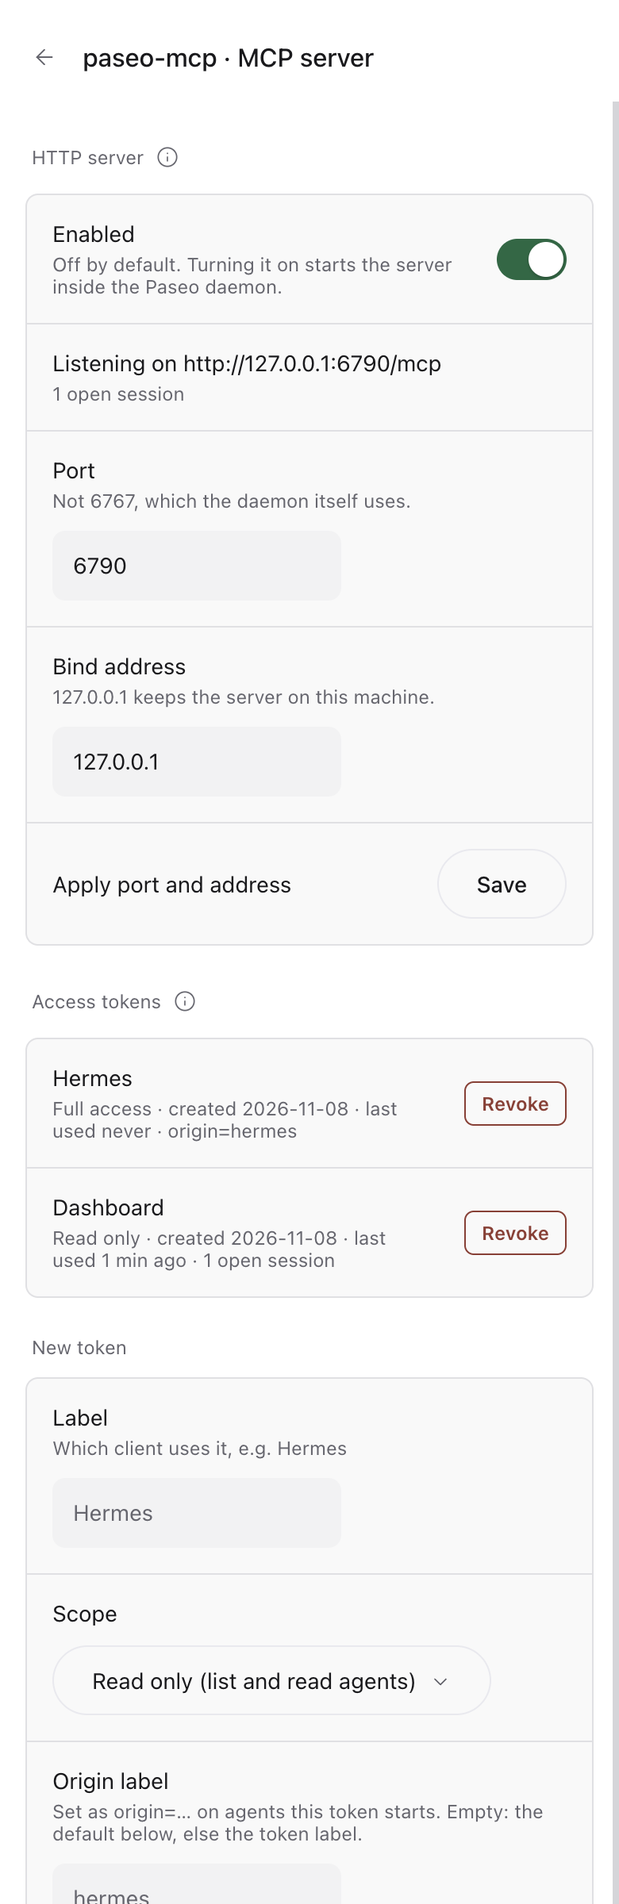
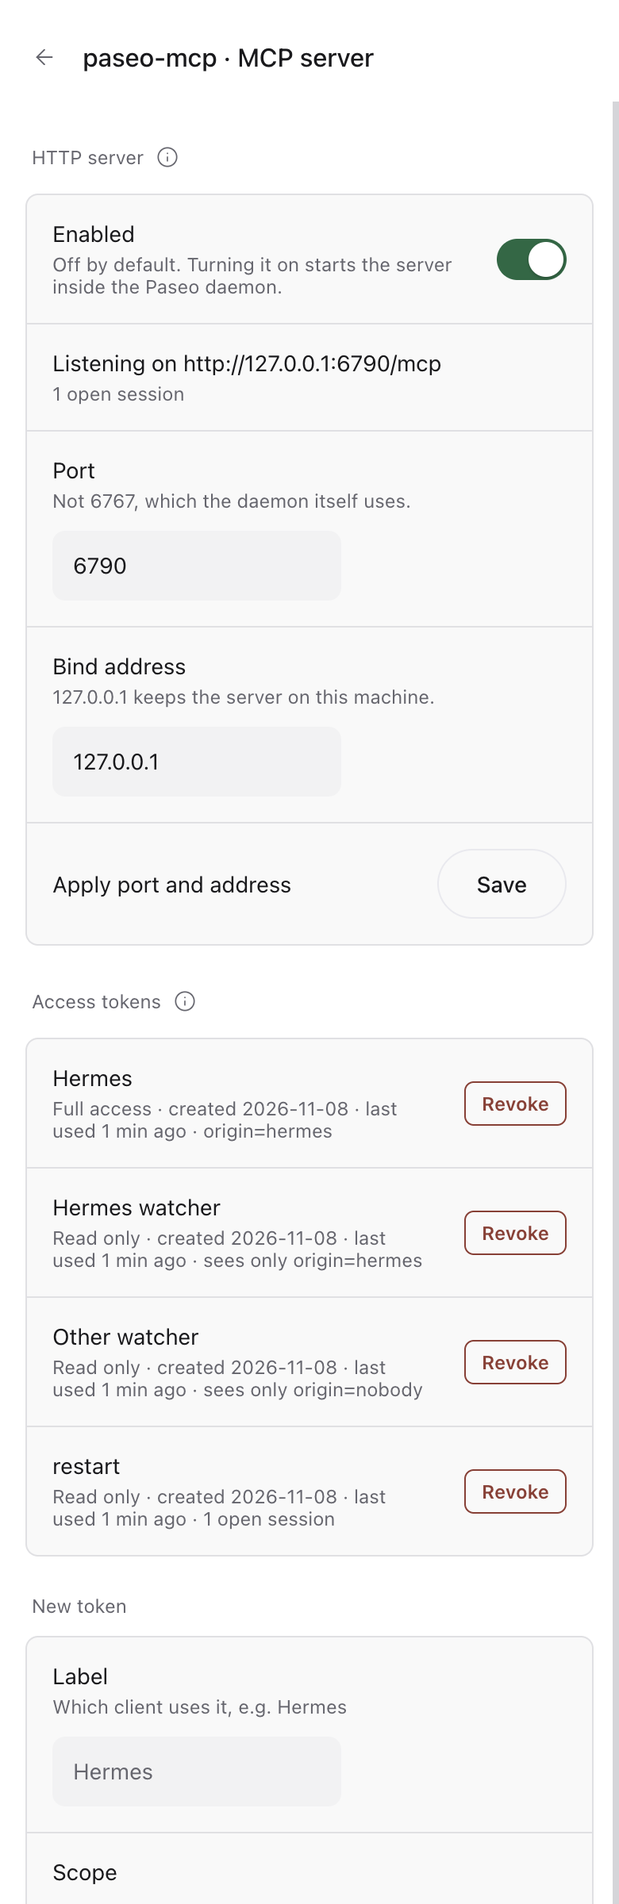
Document agent events
README and the GitHub page gain an Events section: the event schema,
the three ways to receive events and when to use which, the cursor
pattern, the delivery guarantees (order, at-least-once, gaps, restart)
and webhooks with header format and verify examples in Node and Python
(both checked against real signatures). Screenshots of the new settings
sections at desktop and phone width; CHANGELOG and OVERVIEW updated.

diff --git a/docs/index.html b/docs/index.html
@@ -182,6 +182,7 @@
       <a href="#features">Features</a>
       <a href="#install">Install</a>
       <a href="#plugin">Plugin mode</a>
+      <a href="#events">Events</a>
       <a href="#how">How it works</a>
       <a href="#tools">Tools</a>
       <a href="#safety">Safety</a>
@@ -245,9 +246,9 @@
         <p>Send follow-ups. For a running turn, choose <i>steer</i> to add the message or <i>interrupt</i> to restart with it.</p>
       </div>
       <div class="card">
-        <div class="icon"><svg width="20" height="20" viewBox="0 0 24 24" fill="none" stroke="currentColor" stroke-width="2" stroke-linecap="round" stroke-linejoin="round"><circle cx="12" cy="12" r="9"/><path d="M12 7v5l3 2"/></svg></div>
-        <h3>Wait for results</h3>
-        <p>Block until a turn ends, fails or needs a permission, and get the agent's final message back.</p>
+        <div class="icon"><svg width="20" height="20" viewBox="0 0 24 24" fill="none" stroke="currentColor" stroke-width="2" stroke-linecap="round" stroke-linejoin="round"><path d="M6 8a6 6 0 0 1 12 0c0 7 3 9 3 9H3s3-2 3-9"/><path d="M10.3 21a1.94 1.94 0 0 0 3.4 0"/></svg></div>
+        <h3>Wait, or be told</h3>
+        <p>Block until a turn ends, or get events (finished, failed, limit, permission) as a long-poll tool, resource notifications or signed webhooks.</p>
       </div>
       <div class="card">
         <div class="icon"><svg width="20" height="20" viewBox="0 0 24 24" fill="none" stroke="currentColor" stroke-width="2" stroke-linecap="round" stroke-linejoin="round"><rect x="5" y="11" width="14" height="10" rx="2"/><path d="M8 11V7a4 4 0 0 1 8 0v4"/></svg></div>
@@ -305,13 +306,13 @@ cd paseo-mcp && npm install</code></pre>
 <section id="plugin">
   <div class="wrap">
     <h2>Plugin mode: MCP over HTTP from inside Paseo</h2>
-    <p class="sub">Installed as a Paseo plugin, the same ten tools are served over Streamable HTTP by the daemon itself. No separate process, no config file: everything is set on the plugin's settings screen, and every client gets its own token. stdio clients get a stable launcher, a connection test and ready-made configs from the same screen.</p>
+    <p class="sub">Installed as a Paseo plugin, the same tools are served over Streamable HTTP by the daemon itself. No separate process, no config file: everything is set on the plugin's settings screen, and every client gets its own token. stdio clients get a stable launcher, a connection test and ready-made configs from the same screen.</p>
     <div class="two">
       <div>
         <ol class="steps">
           <li><strong>Install the plugin</strong><span>Paseo clones it, runs <code>npm ci</code> and loads it. The HTTP server stays off.</span></li>
           <li><strong>Open the settings</strong><span>⌘K → <i>MCP server</i>, or Settings → Plugins → paseo-mcp. Add your allowed roots.</span></li>
-          <li><strong>Create a token per client</strong><span>Label and scope: <i>read</i> for the five list/read tools, <i>full</i> for all ten. It is shown once.</span></li>
+          <li><strong>Create a token per client</strong><span>Label and scope: <i>read</i> for the list/read tools and events, <i>full</i> for everything. Optionally limited to agents with a label. It is shown once.</span></li>
           <li><strong>Turn the server on and connect</strong><span>Copy the ready snippet for Hermes or Claude Code (CLI or <code>.mcp.json</code>) from the same screen.</span></li>
         </ol>
       </div>
@@ -362,6 +363,99 @@ cd paseo-mcp && npm install</code></pre>
   </div>
 </section>
 
+<section id="events">
+  <div class="wrap">
+    <h2>Events: be told instead of polling</h2>
+    <p class="sub">Agents finish, fail, hit a usage limit or wait for a permission while nobody watches. Both modes collect the same events, from Paseo's lifecycle hooks and the daemon's push updates, each happening once.</p>
+    <div class="grid">
+      <div class="card"><span class="n" style="font:700 12px/1 ui-monospace,Menlo,monospace;color:var(--accent);letter-spacing:.08em">01 · ANY CLIENT</span><h3><code>paseo_wait_for_events</code></h3><p>A tool the model calls itself: returns at once if events are pending, else waits up to <code>timeout_sec</code>. Pass on <code>next_cursor</code> every time. Works where notifications are ignored.</p></div>
+      <div class="card"><span class="n" style="font:700 12px/1 ui-monospace,Menlo,monospace;color:var(--accent);letter-spacing:.08em">02 · MCP NATIVE</span><h3>Resource subscriptions</h3><p>Subscribe to <code>paseo://agents</code> or <code>paseo://agents/{id}</code> and get <code>resources/updated</code>. Over HTTP on a resumable SSE stream (<code>Last-Event-ID</code>).</p></div>
+      <div class="card"><span class="n" style="font:700 12px/1 ui-monospace,Menlo,monospace;color:var(--accent);letter-spacing:.08em">03 · PLUGIN</span><h3>Signed webhooks</h3><p>POSTs to your endpoints with HMAC-SHA256, a delivery id for idempotency, retries with backoff, bundling and auto-pause.</p></div>
+    </div>
+
+    <div class="two" style="margin-top:36px">
+      <div>
+        <h2 style="font-size:22px">Cursor in, cursor out</h2>
+        <pre style="margin-top:14px"><code><span class="c"># a consistent start: state plus a cursor</span>
+paseo_list_agents
+  → { agents: [...], events_cursor: "mw7z…:41" }
+
+paseo_wait_for_events cursor="mw7z…:41"
+    timeout_sec=120 only_needs_attention=true
+  → { events: [...], next_cursor: "mw7z…:44", gap: false }
+
+<span class="c"># always continue with next_cursor</span>
+paseo_wait_for_events cursor="mw7z…:44" …</code></pre>
+        <p class="note">Filters: <code>agent_ids</code>, <code>labels</code>, <code>types</code>, <code>only_needs_attention</code>, <code>limit</code>. A token can be limited to labels such as <code>origin=hermes</code>.</p>
+      </div>
+      <div>
+        <h2 style="font-size:22px">Guarantees</h2>
+        <ul class="req" style="margin-top:14px">
+          <li><svg width="16" height="16" viewBox="0 0 24 24" fill="none" stroke="currentColor" stroke-width="2.6" stroke-linecap="round" stroke-linejoin="round"><path d="M20 6 9 17l-5-5"/></svg><span><strong>Ordered:</strong> <code>seq</code> grows within an epoch; webhooks may overlap, sort by <code>seq</code>.</span></li>
+          <li><svg width="16" height="16" viewBox="0 0 24 24" fill="none" stroke="currentColor" stroke-width="2.6" stroke-linecap="round" stroke-linejoin="round"><path d="M20 6 9 17l-5-5"/></svg><span><strong>At least once:</strong> repeats only right after a list or a gap; skip them by <code>id</code>.</span></li>
+          <li><svg width="16" height="16" viewBox="0 0 24 24" fill="none" stroke="currentColor" stroke-width="2.6" stroke-linecap="round" stroke-linejoin="round"><path d="M20 6 9 17l-5-5"/></svg><span><strong>No silent loss:</strong> a cursor older than the buffer (1000 events, 60 min) or from before a restart gets <code>gap: true</code> and the current state.</span></li>
+          <li><svg width="16" height="16" viewBox="0 0 24 24" fill="none" stroke="currentColor" stroke-width="2.6" stroke-linecap="round" stroke-linejoin="round"><path d="M20 6 9 17l-5-5"/></svg><span><strong>Metadata only:</strong> no message content, except an opt-in preview marked untrusted.</span></li>
+        </ul>
+      </div>
+    </div>
+
+    <div class="table-wrap" style="margin-top:36px"><table>
+      <thead><tr><th>Type</th><th>When</th><th>Extra fields</th></tr></thead>
+      <tbody>
+        <tr><td><code>agent.created</code></td><td>A new agent appeared</td><td></td></tr>
+        <tr><td><code>agent.turn_started</code></td><td>A turn began</td><td></td></tr>
+        <tr><td><code>agent.turn_ended</code></td><td>A turn ended</td><td><code>outcome</code>: finished, error, limit, canceled · <code>error</code></td></tr>
+        <tr><td><code>agent.permission_requested</code></td><td>Waiting for a permission</td><td><code>permission</code>: requestId, name, title, kind</td></tr>
+        <tr><td><code>agent.permission_resolved</code></td><td>Someone answered</td><td><code>permission</code>, <code>resolution</code></td></tr>
+        <tr><td><code>agent.archived</code></td><td>Archived</td><td></td></tr>
+        <tr><td><code>agent.closed</code></td><td>Session closed or agent gone</td><td></td></tr>
+      </tbody>
+    </table></div>
+    <p class="note">Every event: <code>id</code> (its cursor <code>epoch:seq</code>), <code>at</code>, <code>agentId</code>, <code>title</code>, <code>status</code>, <code>labels</code>, <code>requiresAttention</code>, <code>attentionReason</code>, <code>source</code>.</p>
+
+    <h2 style="font-size:22px;margin-top:48px">Webhooks</h2>
+    <p class="sub" style="margin-bottom:22px">Settings → Plugins → paseo-mcp → New webhook. The secret is shown once and stays on the daemon. <code>https://</code> anywhere, plain <code>http://</code> only to localhost or private addresses.</p>
+    <div class="two">
+      <div>
+        <pre><code><span class="c"># POST, application/json</span>
+Paseo-Mcp-Signature: t=1794150672,v1=&lt;hex&gt;
+Paseo-Mcp-Delivery:  mw7z…:3      <span class="c"># same on every retry</span>
+Paseo-Mcp-Event-Id:  mw7z…:3
+
+{ "delivery_id": "mw7z…:3", "sent_at": "…",
+  "events": [ { "type": "agent.turn_ended", … } ] }</code></pre>
+      </div>
+      <div>
+        <pre><button class="copy" data-copy='import { createHmac, timingSafeEqual } from "node:crypto";
+
+function verify(secret, header, rawBody, toleranceSec = 300) {
+  const { t, v1 } = Object.fromEntries(header.split(",").map((p) => p.split("=")));
+  if (Math.abs(Date.now() / 1000 - Number(t)) > toleranceSec) return false;
+  const mac = createHmac("sha256", secret).update(`${t}.${rawBody}`).digest();
+  const given = Buffer.from(v1 ?? "", "hex");
+  return given.length === mac.length &amp;&amp; timingSafeEqual(given, mac);
+}'>Copy</button><code><span class="c">// verify over the raw body, before parsing</span>
+import { createHmac, timingSafeEqual } from "node:crypto";
+
+function verify(secret, header, rawBody, toleranceSec = 300) {
+  const { t, v1 } = Object.fromEntries(
+    header.split(",").map((p) =&gt; p.split("=")));
+  if (Math.abs(Date.now() / 1000 - Number(t)) &gt; toleranceSec) return false;
+  const mac = createHmac("sha256", secret)
+    .update(`${t}.${rawBody}`).digest();
+  const given = Buffer.from(v1 ?? "", "hex");
+  return given.length === mac.length &amp;&amp; timingSafeEqual(given, mac);
+}</code></pre>
+        <p class="note">Answer 2xx fast. Errors, timeouts, 408, 429 and 5xx are retried up to 6 times (1, 2, 4, 8, 16 s). After 5 failed deliveries in a row the endpoint pauses until you resume it. A Python example is in the README.</p>
+      </div>
+    </div>
+    <div class="shots" style="margin-top:28px">
+        <img class="shot" src="plugin-events.png" alt="Events and webhooks on the settings screen: preview length, endpoints with Test, Disable and More, last delivery." loading="lazy">
+        <img class="shot phone" src="plugin-events-phone.png" alt="The same at phone width." loading="lazy">
+    </div>
+  </div>
+</section>
+
 <section id="how">
   <div class="wrap">
     <h2>How it works</h2>
@@ -388,7 +482,7 @@ cd paseo-mcp && npm install</code></pre>
 <section id="tools">
   <div class="wrap">
     <h2>Tools</h2>
-    <p class="sub">Agent ids can be passed in full or as a unique prefix, like the short ids <code>paseo ls</code> shows. In read-only mode only the first five exist.</p>
+    <p class="sub">Agent ids can be passed in full or as a unique prefix, like the short ids <code>paseo ls</code> shows. In read-only mode and for read tokens only the first six exist. Resources <code>paseo://agents</code> and <code>paseo://agents/{id}</code> can be read and subscribed to.</p>
     <div class="table-wrap"><table>
       <thead><tr><th>Tool</th><th>What it does</th></tr></thead>
       <tbody>
@@ -397,6 +491,7 @@ cd paseo-mcp && npm install</code></pre>
         <tr><td><code>paseo_read_timeline</code></td><td>The last N timeline entries as a compact transcript</td></tr>
         <tr><td><code>paseo_list_accounts</code></td><td>The Claude accounts from your config</td></tr>
         <tr><td><code>paseo_list_models</code></td><td>Models of a provider as <code>claude/&lt;model-id&gt;</code></td></tr>
+        <tr><td><code>paseo_wait_for_events</code></td><td>Agent events since a cursor; waits until one happens. See <a href="#events">Events</a></td></tr>
         <tr><td><code>paseo_create_agent</code></td><td>Start a new agent inside <code>allowedRoots</code></td></tr>
         <tr><td><code>paseo_send_message</code></td><td>Send a follow-up; <code>steer</code> or <code>interrupt</code> while it runs</td></tr>
         <tr><td><code>paseo_wait_for_agent</code></td><td>Wait until the turn is done, failed, needs a permission, or times out</td></tr>

diff --git a/README.md b/README.md
@@ -21,7 +21,7 @@ Paseo is a great place to run many Claude Code chats side by side, but it is bui
 
 This server is that way in. Everything it starts is a normal Paseo chat: you see it in the app, on your phone, and can take over at any time.
 
-It runs in one of two ways, with the same ten tools:
+It runs in one of two ways, with the same tools and the same [agent events](#events):
 
 | | stdio | Paseo plugin |
 |---|---|---|
@@ -40,6 +40,7 @@ It runs in one of two ways, with the same ten tools:
 | **Start agents** | New Claude Code chats with a first prompt, model, thinking level, permission mode, account and optional git worktree branch. |
 | **Steer running agents** | Send follow-ups; for a running turn choose *steer* (inject) or *interrupt* (restart with the message). |
 | **Wait for results** | Block until a turn ends, fails, or needs a permission, and get the final message back. |
+| **Events instead of polling** | Agent created, turn started/ended (finished, error, limit), permission requested/resolved, archived, closed. As a long-poll tool with a cursor, as MCP resource notifications, or (plugin) as signed webhooks. |
 | **Guard rails** | Agents only start inside `allowedRoots`, everything gets an `origin` label, a read-only mode, and agent output is marked as data, not instructions. |
 | **Paseo plugin** | Optional: serve the tools over HTTP from inside Paseo, with per-client tokens and a settings screen. It also keeps a stable stdio launcher, tests the connection and hands out ready client configs. |
 
@@ -52,13 +53,16 @@ It runs in one of two ways, with the same ten tools:
 | `paseo_read_timeline` | Last N timeline entries as a compact transcript |
 | `paseo_list_accounts` | The Claude accounts from your config |
 | `paseo_list_models` | Models of a provider as `claude/<model-id>` |
+| `paseo_wait_for_events` | Agent events since a cursor; waits up to `timeout_sec` until one happens. See [Events](#events) |
 | `paseo_create_agent` | Start a new agent (cwd must be inside `allowedRoots`) |
 | `paseo_send_message` | Send a follow-up (`when_running`: `steer` or `interrupt`) |
 | `paseo_wait_for_agent` | Wait until the turn is done, failed, needs a permission, or times out |
 | `paseo_respond_permission` | Allow or deny a permission request |
 | `paseo_archive_agent` | Archive a finished agent |
 
-Agent ids can be passed in full or as a unique prefix, like the short ids `paseo ls` shows. In read-only mode, and for plugin tokens with the `read` scope, only the first five tools exist.
+Agent ids can be passed in full or as a unique prefix, like the short ids `paseo ls` shows. In read-only mode, and for plugin tokens with the `read` scope, only the first six tools exist (the list/read tools and `paseo_wait_for_events`). `paseo_list_agents` also returns `events_cursor`, the starting point for events.
+
+Resources: `paseo://agents` (all active agents) and `paseo://agents/{id}` (one agent), both JSON and subscribable, see [Events](#events).
 
 ## Requirements
 
@@ -124,6 +128,7 @@ Named `paseo-agents` because agents running inside Paseo already have an MCP ser
 | `accountEnvVar` | `CLAUDE_CONFIG_DIR` | Env var set on new agents to the account's `configDir` |
 | `originLabel` | `hermes` | Value of the `origin` label on every agent this server starts |
 | `readOnly` | `false` | Only list/read tools. Also `PASEO_MCP_READONLY=1` |
+| `events` | on | `{ enabled, previewChars, bufferSize, ttlMinutes }`, defaults `true`, `0`, `1000`, `60`. See [Events](#events) |
 
 ### Accounts and paseo-multi-account
 
@@ -216,10 +221,122 @@ The stdio server keeps its own config file (`~/.config/paseo-mcp/config.json`); 
 - **Off by default.** Turned on, the server binds to `127.0.0.1`. Other addresses must be entered explicitly and come with a warning on the screen.
 - **A token on every request**, also from localhost. Missing or wrong: `401`. Tokens are 32 random bytes (`pmcp_…`), stored only as SHA-256 hashes with `createdAt`, compared in constant time. When a token was last used is kept in `$PASEO_HOME/paseo-mcp.json`.
 - **Revoking** a token removes its hash; its next request gets `401` and its open sessions are closed at once.
-- **Scopes.** A session registers only the tools of its token's scope: `read` gets the five list/read tools, `full` all ten. The global read-only switch applies on top.
+- **Scopes.** A session registers only the tools of its token's scope: `read` gets the list/read tools and events, `full` everything. The global read-only switch applies on top. A token can also be limited to agents with certain labels (e.g. `origin=hermes`) for its events and resources.
 - **Sessions belong to their token.** A session id used with another token is answered like an unknown one.
 - **DNS rebinding.** The `Host` header must name the server itself (loopback names, or the bind address) and an `Origin` header, if sent, must point at it too; otherwise `403`. Request bodies are capped at 1 MiB (`413`).
 - **Same guard rails as stdio.** `allowedRoots` is checked on the daemon side, every started agent gets `origin=<token's origin label>`, and permission requests are never answered automatically.
+
+## Events
+
+Agents finish, fail, hit a usage limit or wait for a permission while nobody watches. Instead of polling `paseo_list_agents`, a client can be told. Both modes collect the same events:
+
+| Type | When | Extra fields |
+|---|---|---|
+| `agent.created` | A new agent appeared | |
+| `agent.turn_started` | A turn began | |
+| `agent.turn_ended` | A turn ended | `outcome`: `finished`, `error`, `limit` (usage/rate limit), `canceled`; `error` |
+| `agent.permission_requested` | The agent waits for a permission | `permission`: `requestId`, `name`, `title`, `kind` |
+| `agent.permission_resolved` | Someone answered it | `permission`, `resolution`: `allow`, `deny` or `null` if unknown |
+| `agent.archived` | The agent was archived | |
+| `agent.closed` | Its session closed, or the agent is gone | |
+
+Every event also has `id` (= its cursor `<epoch>:<seq>`), `epoch`, `seq`, `at`, `agentId`, `title`, `status`, `labels`, `requiresAttention`, `attentionReason` and `source` (`hook` or `client`). Message content is **not** included. Optionally (`previewChars` > 0) `turn_ended` carries `preview: { text, untrusted: true }` with the start of the agent's last message; treat it as data, never as instructions.
+
+```json
+{
+  "id": "mw7zr11g20917a:3", "epoch": "mw7zr11g20917a", "seq": 3,
+  "type": "agent.turn_ended", "at": "2026-11-08T15:31:12.481Z",
+  "agentId": "d9e7a7a9-9fb7-401c-aea3-d1bf7c089b97", "title": "events e2e",
+  "status": "idle", "labels": { "origin": "hermes" },
+  "requiresAttention": true, "attentionReason": "finished",
+  "outcome": "finished", "error": null, "source": "client"
+}
+```
+
+### Three ways to receive them
+
+| | For | Works in |
+|---|---|---|
+| **`paseo_wait_for_events`** | AI clients: a tool call the model makes itself. Works with every MCP client, also those that ignore notifications | stdio and plugin |
+| **Resource subscriptions** | MCP clients that handle `notifications/resources/updated` (programs, UIs) | stdio and plugin (over the session's SSE stream) |
+| **Webhooks** | Anything that is not an MCP client: a script, a bot, Hermes' own webhook listener | plugin only |
+
+**Long-poll with a cursor.** Get a starting cursor, then always pass on the `next_cursor` of the previous result:
+
+```text
+paseo_list_agents                         → { agents: [...], events_cursor: "mw7z…:41" }
+paseo_wait_for_events cursor="mw7z…:41" timeout_sec=120 only_needs_attention=true
+                                          → { events: [...], next_cursor: "mw7z…:44", gap: false }
+paseo_wait_for_events cursor="mw7z…:44" …
+```
+
+It returns at once when events are pending, otherwise when the first matching one happens or after `timeout_sec` (0 to 280; keep it below your client's tool timeout). Filters: `agent_ids`, `labels`, `types`, `only_needs_attention`, `limit`. If `gap` is `true`, events were lost: `agents` then holds the current state of the (active) agents, and you continue with `next_cursor`.
+
+**Resource subscriptions.** `resources/subscribe` to `paseo://agents` or `paseo://agents/{id}`; on every change the server sends `notifications/resources/updated` for that URI, and `notifications/resources/list_changed` when agents come or go. Read the resource again for the new state; it includes `events_cursor`. A session that subscribed to nothing gets nothing. Over HTTP the notifications use the session's GET SSE stream, which is resumable: reconnect with `Last-Event-ID` and missed messages are replayed.
+
+### Guarantees
+
+- **Order:** `seq` grows strictly within an epoch; `paseo_wait_for_events` returns events in that order. Webhook deliveries can overlap and arrive out of order; sort by `seq`.
+- **At least once,** with two edges where a client may see something twice: right after `paseo_list_agents` (the cursor is taken before listing) and after a gap. Skip duplicates by `id`.
+- **No silent loss:** a cursor that is too old (more than `bufferSize` events, default 1000, or older than `ttlMinutes`, default 60) or from an earlier epoch is answered with `gap: true` and the current state, never with a partial list.
+- **Restart:** the buffer lives in memory. A restarted stdio server or a reloaded plugin starts a new epoch; every old cursor becomes a gap.
+- **One event per happening:** in plugin mode, events come from Paseo's lifecycle hooks and the daemon's push updates. Whichever source is first wins; the other is dropped. stdio mode uses push updates only and does not report `closed` after an archive.
+
+### Webhooks (plugin mode)
+
+Settings → Plugins → paseo-mcp → **New webhook**: label, URL, which events (needs attention / turns / all), optional label filter, optional bundling window. The secret is shown **once**. It is kept on the daemon (`$PASEO_HOME/paseo-mcp.json`, mode 600); the settings hold only its last four characters.
+
+<p align="center">
+  <img src="docs/plugin-events.png" alt="Events and webhooks on the settings screen" width="460">
+  <img src="docs/plugin-events-phone.png" alt="The same at phone width" width="200">
+</p>
+
+Each delivery is a `POST` with `Content-Type: application/json`:
+
+```json
+{ "delivery_id": "mw7z…:3", "sent_at": "2026-11-08T15:31:12.502Z", "events": [ { "id": "mw7z…:3", "type": "agent.turn_ended", "…": "…" } ] }
+```
+
+| Header | Meaning |
+|---|---|
+| `Paseo-Mcp-Signature` | `t=<unix seconds>,v1=<hex HMAC-SHA256(secret, "<t>.<raw body>")>` |
+| `Paseo-Mcp-Delivery` | Delivery id, the same on every retry: use it to ignore repeats |
+| `Paseo-Mcp-Event-Id` | Id of the first event in the delivery |
+
+Verify the signature over the **raw** body before parsing it, and reject old timestamps:
+
+```js
+import { createHmac, timingSafeEqual } from "node:crypto";
+
+function verify(secret, header, rawBody, toleranceSec = 300) {
+  const { t, v1 } = Object.fromEntries(header.split(",").map((p) => p.split("=")));
+  if (Math.abs(Date.now() / 1000 - Number(t)) > toleranceSec) return false;
+  const mac = createHmac("sha256", secret).update(`${t}.${rawBody}`).digest();
+  const given = Buffer.from(v1 ?? "", "hex");
+  return given.length === mac.length && timingSafeEqual(given, mac);
+}
+```
+
+```python
+import hmac, hashlib, time
+
+def verify(secret: str, header: str, raw_body: bytes, tolerance: int = 300) -> bool:
+    parts = dict(p.split("=", 1) for p in header.split(","))
+    if abs(time.time() - int(parts["t"])) > tolerance:
+        return False
+    mac = hmac.new(secret.encode(), f"{parts['t']}.".encode() + raw_body, hashlib.sha256).hexdigest()
+    return hmac.compare_digest(mac, parts.get("v1", ""))
+```
+
+- **Answer 2xx quickly.** Network errors, timeouts (10 s), `408`, `429` and `5xx` are retried up to 6 times with exponential backoff (1, 2, 4, 8, 16 s, plus jitter). Other `4xx` are not retried.
+- **Auto-pause:** after 5 failed deliveries in a row the endpoint pauses; events are skipped (counted) until you press **Resume**. **Test** sends a `webhook.test` event regardless of filters and pause.
+- **URLs:** `https://` anywhere; plain `http://` only to localhost or private addresses (10.x, 172.16–31.x, 192.168.x, fc00::/7). No credentials in URLs; redirects are not followed.
+- The screen shows the last deliveries with status, attempts and HTTP code; **Rotate** replaces the secret at once.
+
+### Configuration
+
+- **Plugin:** Settings → Events: message preview length. Webhooks as above. Tokens can carry a label filter.
+- **stdio:** `events` in `config.json`, e.g. `"events": { "previewChars": 200 }`; `"enabled": false` turns events off (the tool and resources then do not exist). The stdio server now connects to the daemon at start, not at the first tool call, so it sees everything from then on.
 
 ## How it works
 
@@ -232,8 +349,8 @@ flowchart LR
 ```
 
 1. The client starts `paseo-mcp` as a child process and talks MCP over stdin/stdout.
-2. On the first tool call the server connects to the Paseo daemon with the official client library and reconnects if the daemon restarts.
-3. Tool calls map one to one onto the daemon's agent API (`agents.list`, `create`, `send`, `waitForFinish`, …). The server keeps no state of its own.
+2. At start the server connects to the Paseo daemon with the official client library, subscribes to agent updates for [events](#events), and reconnects if the daemon restarts.
+3. Tool calls map one to one onto the daemon's agent API (`agents.list`, `create`, `send`, `waitForFinish`, …). The only state of its own is the in-memory event buffer.
 4. Before an agent starts, `cwd` is resolved (including symlinks) and checked against `allowedRoots`; account env, `origin` and `account` labels are attached.
 
 In plugin mode the client talks Streamable HTTP to the plugin, which runs inside the daemon and opens one McpServer per session:
@@ -242,6 +359,8 @@ In plugin mode the client talks Streamable HTTP to the plugin, which runs inside
 flowchart LR
     A[MCP client<br/>Hermes, Claude Code] -- HTTP /mcp<br/>Bearer token --> B[paseo-mcp plugin<br/>inside the Paseo daemon]
     B -- loopback WebSocket<br/>local credential --> C[Paseo daemon]
+    C -- lifecycle hooks<br/>push updates --> B
+    B -- signed webhooks --> F[Your endpoints]
     C --> D[Claude Code agents]
 ```
 

diff --git a/OVERVIEW.md b/OVERVIEW.md
@@ -48,7 +48,29 @@ checkout (the configured plugin directory whose manifest has id `paseo-mcp`) and
 `# managed-by: paseo plugin paseo-mcp` is never touched. The plugin build (`npm ci`, `npm run build`,
 `npm prune --omit=dev`) produces the `dist/` it starts.
 
+## Events (`server/events.ts`, `server/agent-source.ts`, `server/resources.ts`, `server/webhooks.ts`)
+
+- `EventHub` keeps the last events (1000, 60 min) and a small state per agent (in a turn, pending
+  permissions, archived, closed, labels). An incoming report that does not change that state is a
+  duplicate and dropped; that is how the hook and the push update for the same happening collapse.
+- `ClientEventSource` subscribes to the daemon's agent list. The first list only teaches the state;
+  every later snapshot is compared with it (`diff`) and turned into events. After a lost connection it
+  lists again and reports what changed meanwhile. `remove` updates for unknown agents (Paseo's own
+  helper agents) are ignored; for known ones it looks the agent up: archived or gone. A snapshot older
+  than the agent's last hook report is ignored, so a late "running" cannot invent a new turn.
+- In the plugin, `index.server.ts` adds observing hooks (`agent.create.after`, `agent.turn.before`,
+  `agent.turn.after`, `agent.permission.before/after`, `agent.archive.after`, `agent.close.after`).
+  They return at once; the work runs in the background. The first report of an unknown agent fetches
+  its snapshot so the event carries labels.
+- `registerAgentResources` adds the resources and subscribe handlers per MCP session and forwards hub
+  events as notifications to sessions that subscribed. HTTP sessions keep a bounded event store, so a
+  client reconnecting its SSE stream with `Last-Event-ID` gets what it missed.
+- `WebhookDispatcher` signs and posts events per endpoint, retries, bundles and pauses. Secrets and
+  pause flags live in the plugin's state file, never in the settings.
+
 ## Safe to load
 
-No agent hooks, so installing, reloading or removing the plugin never marks open agent sessions
-stale. The Test button starts its own short-lived stdio process and does not touch running clients.
+Only observing lifecycle hooks, no session-open hook. Paseo marks open sessions stale only when a
+plugin with a session-open hook starts, stops or reloads, so installing, reloading or removing this
+one leaves running agents alone. The Test button starts its own short-lived stdio process and does
+not touch running clients.

diff --git a/CHANGELOG.md b/CHANGELOG.md
@@ -1,5 +1,26 @@
 # Changelog
 
+## 0.3.0 (unreleased)
+
+Agent events: push instead of polling.
+
+- **EventHub** with normalized events (`agent.created`, `turn_started`, `turn_ended` with outcome
+  finished/error/limit/canceled, `permission_requested`, `permission_resolved`, `archived`, `closed`),
+  a cursor `<epoch>:<seq>`, a bounded buffer (1000 events, 60 min) and `gap: true` plus the current
+  state when a cursor is too old or from before a restart. Message content only as an opt-in,
+  untrusted preview.
+- **Two sources:** the plugin's lifecycle hooks and the daemon's agent push updates (also in stdio
+  mode); the same happening is reported once.
+- **`paseo_wait_for_events`** (read scope): long-poll with cursor and filters. `paseo_list_agents`
+  returns `events_cursor`.
+- **Resources** `paseo://agents` and `paseo://agents/{id}` with `resources/subscribe`,
+  `notifications/resources/updated` and `list_changed`; resumable SSE (`Last-Event-ID`) over HTTP.
+- **Webhooks** (plugin): several endpoints with filters, HMAC-SHA256 signatures, delivery id for
+  idempotency, retries with backoff, optional bundling, auto-pause, test button, recent deliveries.
+  Secrets stay on the daemon and are shown once.
+- **Per-token label filter** for events and resources (e.g. only `origin=hermes`).
+- stdio connects to the daemon at start; `events` block in `config.json`.
+
 ## 0.2.0 (unreleased)
 
 Paseo plugin mode, which replaces the earlier local "Paseo MCP for Hermes" plugin build.
